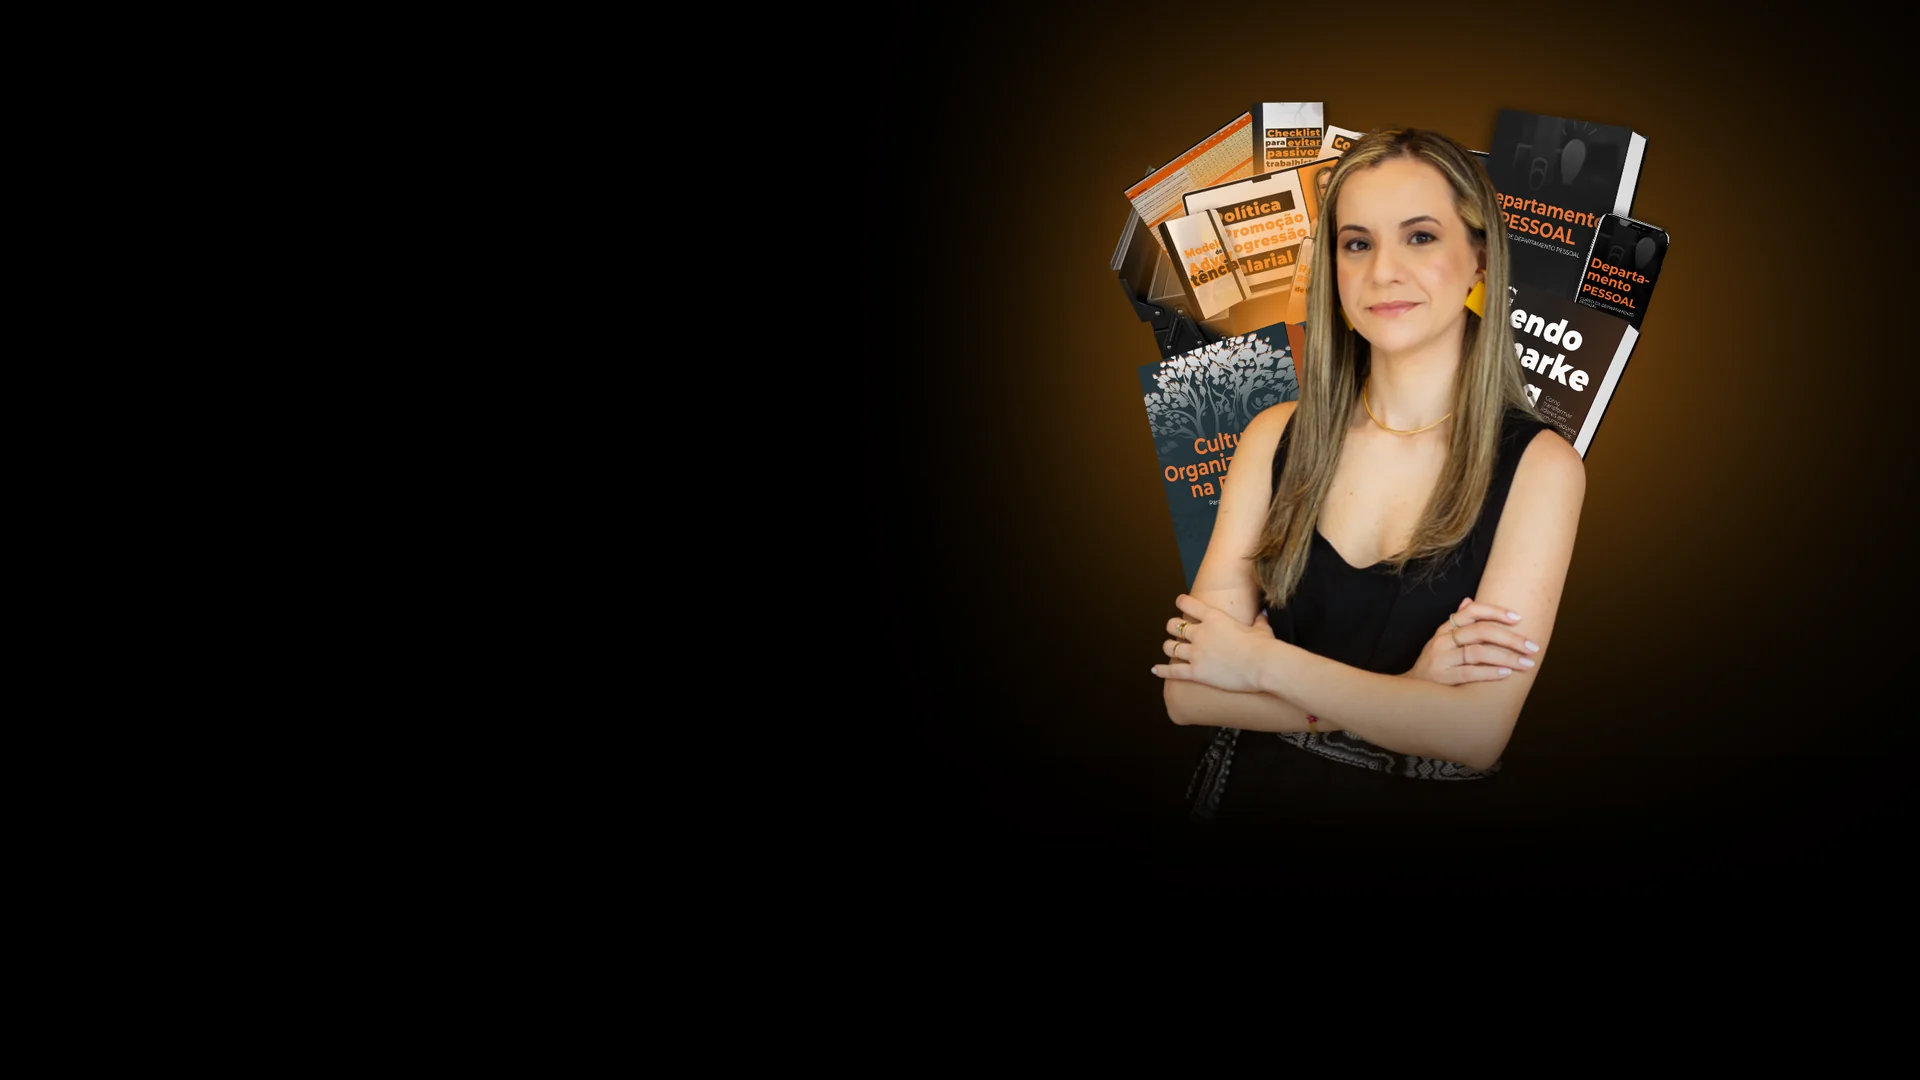
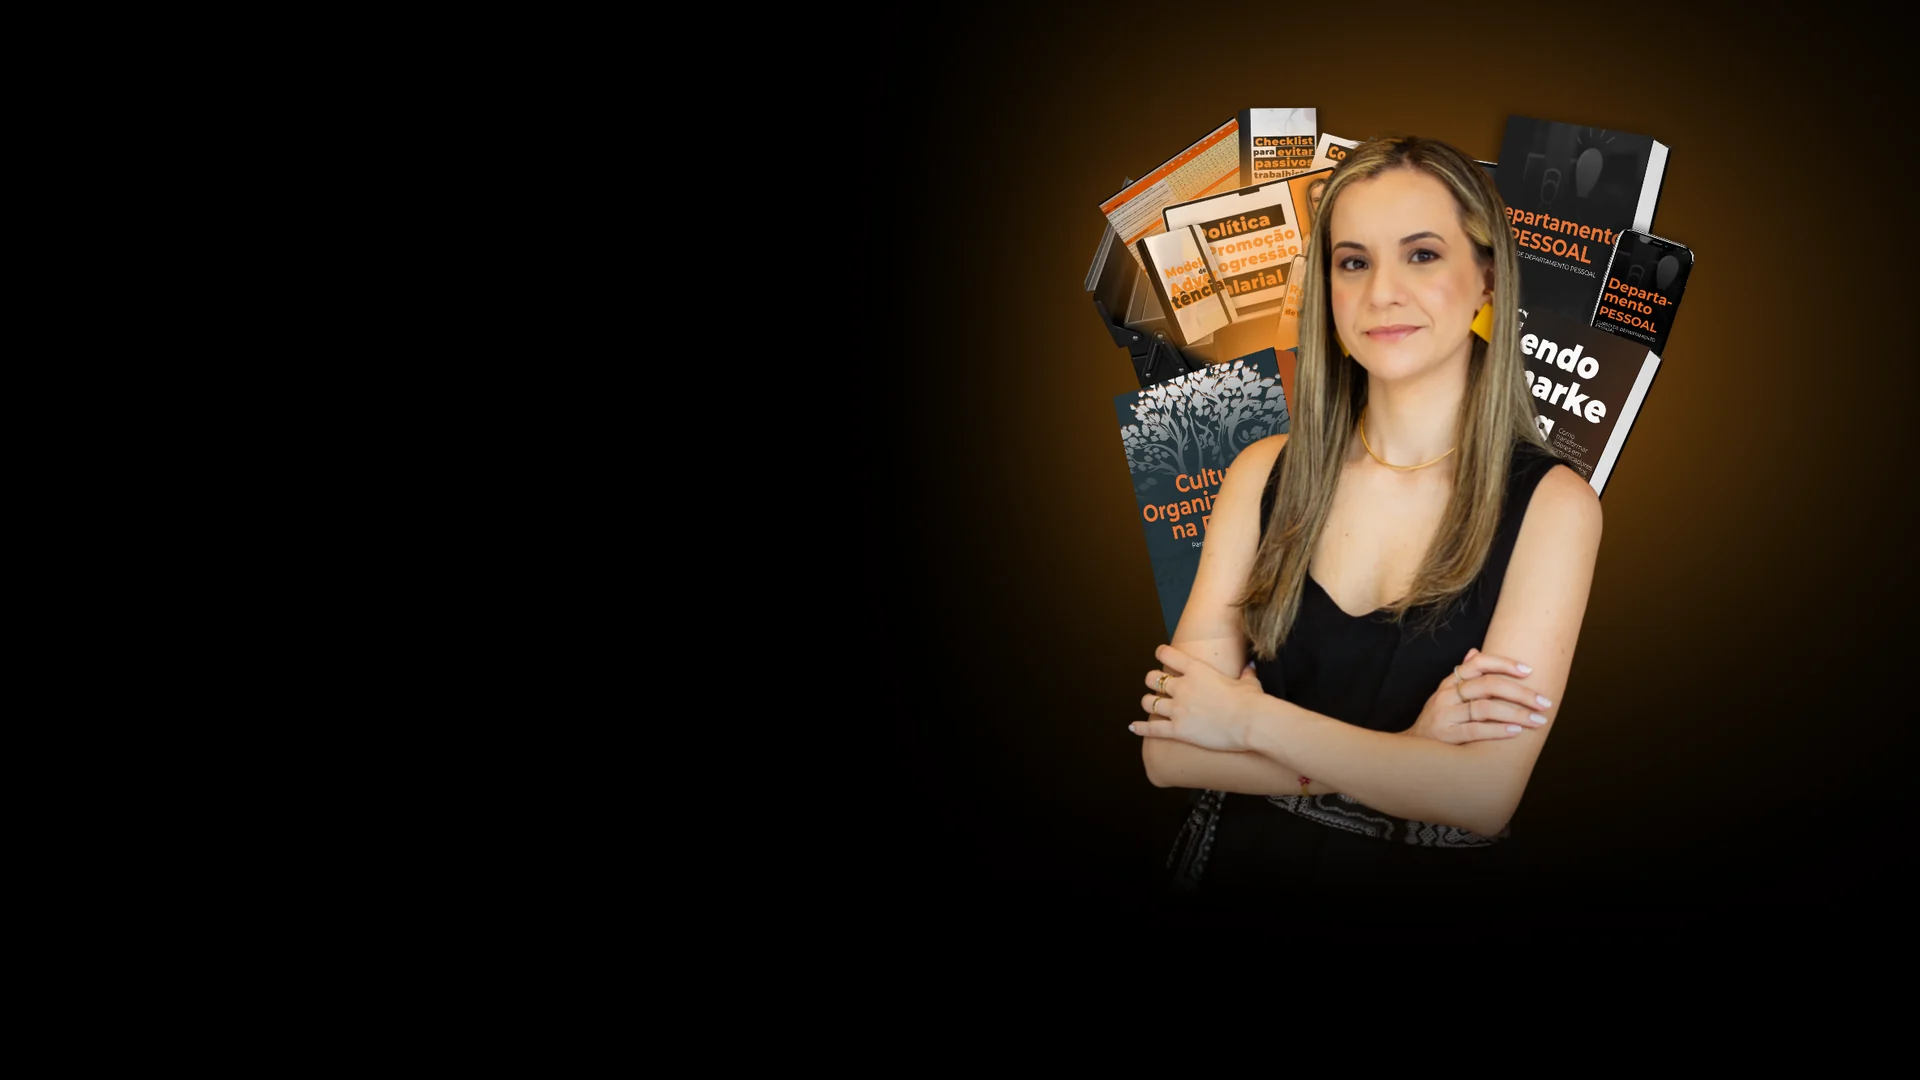
Aumenta a Rose no fundo do desktop

Changed region(s): [[0.5625, 0.0917, 0.9062, 0.7944], [0.7812, 0.0917, 0.8125, 0.1222]]

diff --git a/style.css b/style.css
@@ -90,7 +90,7 @@ img, svg { display: block; max-width: 100%; }
   /* conteúdo centralizado na altura: a sobra se divide entre cima e baixo */
   justify-content: center;
   padding: 3rem 0 2.5rem;
-  background: #000 url('Assets/bg-desktop.webp?v=2') top center / cover no-repeat;
+  background: #000 url('Assets/bg-desktop.webp?v=3') top center / cover no-repeat;
 }
 
 .hero-content {
